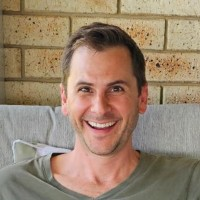
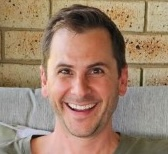
Updates

diff --git a/css/styles.css b/css/styles.css
@@ -92,13 +92,13 @@ ul {
 }
 
 .simon__img {
-  width: 3.75em;
-  height: 3.75em;
+  width: 3em;
+  height: 3em;
   object-fit: cover;
-  object-position: center 30%;
-  transform: scale(1.25);
+  object-position: 35% 25%;
+  transform: scale(1.45);
   border-radius: 50%;
-  margin-right: 1rem;
+  margin-right: 1.25rem;
 }
 
 .simon__tagline {
@@ -228,7 +228,7 @@ ul {
   }
 
   body {
-    font-size: 16px;
+    font-size: 19px;
   }
 
   .header {
@@ -236,14 +236,14 @@ ul {
     top: 0;
     left: 0;
     height: 100vh;
-    width: 340px;
+    width: 380px;
     padding-top: 0;
   }
 
   .view {
     flex: 1;
     padding: 2.5em;
-    margin-left: calc(340px);
+    margin-left: calc(380px);
   }
 
   .tabs {
@@ -261,9 +261,16 @@ ul {
 
   .simon {
     border-bottom: 1px solid rgba(255,255,255,0.25);
-    padding-bottom: 2.5em;
-    padding-top: 3em;
-    margin-bottom: 1.25em;
+    padding-bottom: 1.5em;
+    padding-top: 2em;
+    margin-bottom: 1em;
+  }
+  .simon__name {
+    font-size: 1.4em;
+  }
+  .simon__tagline {
+    font-size: 0.9em;
+    white-space: nowrap;
   }
 
   /* Home animation loading */

diff --git a/index.html b/index.html
@@ -411,8 +411,8 @@
                     </div>
                 </li>
             </ul>
-            <div class="divider"></div>
-            <p>Prior to 2010 I worked for an agency, so I can't claim any of their sites or apps as purely my own work.
+            <div class="divider hidden"></div>
+            <p class="hidden">Prior to 2010 I worked for an agency, so I can't claim any of their sites or apps as purely my own work.
                 Head over to<a href="http://www.kintek.com.au/" target="_blank">kintek.com.au</a> to see the sites we
                 developed as a team between 2006 and 2010. My main role was backend and frontend programming, so I also
                 can't take any credit for any of their beautiful designs! =)</p>
